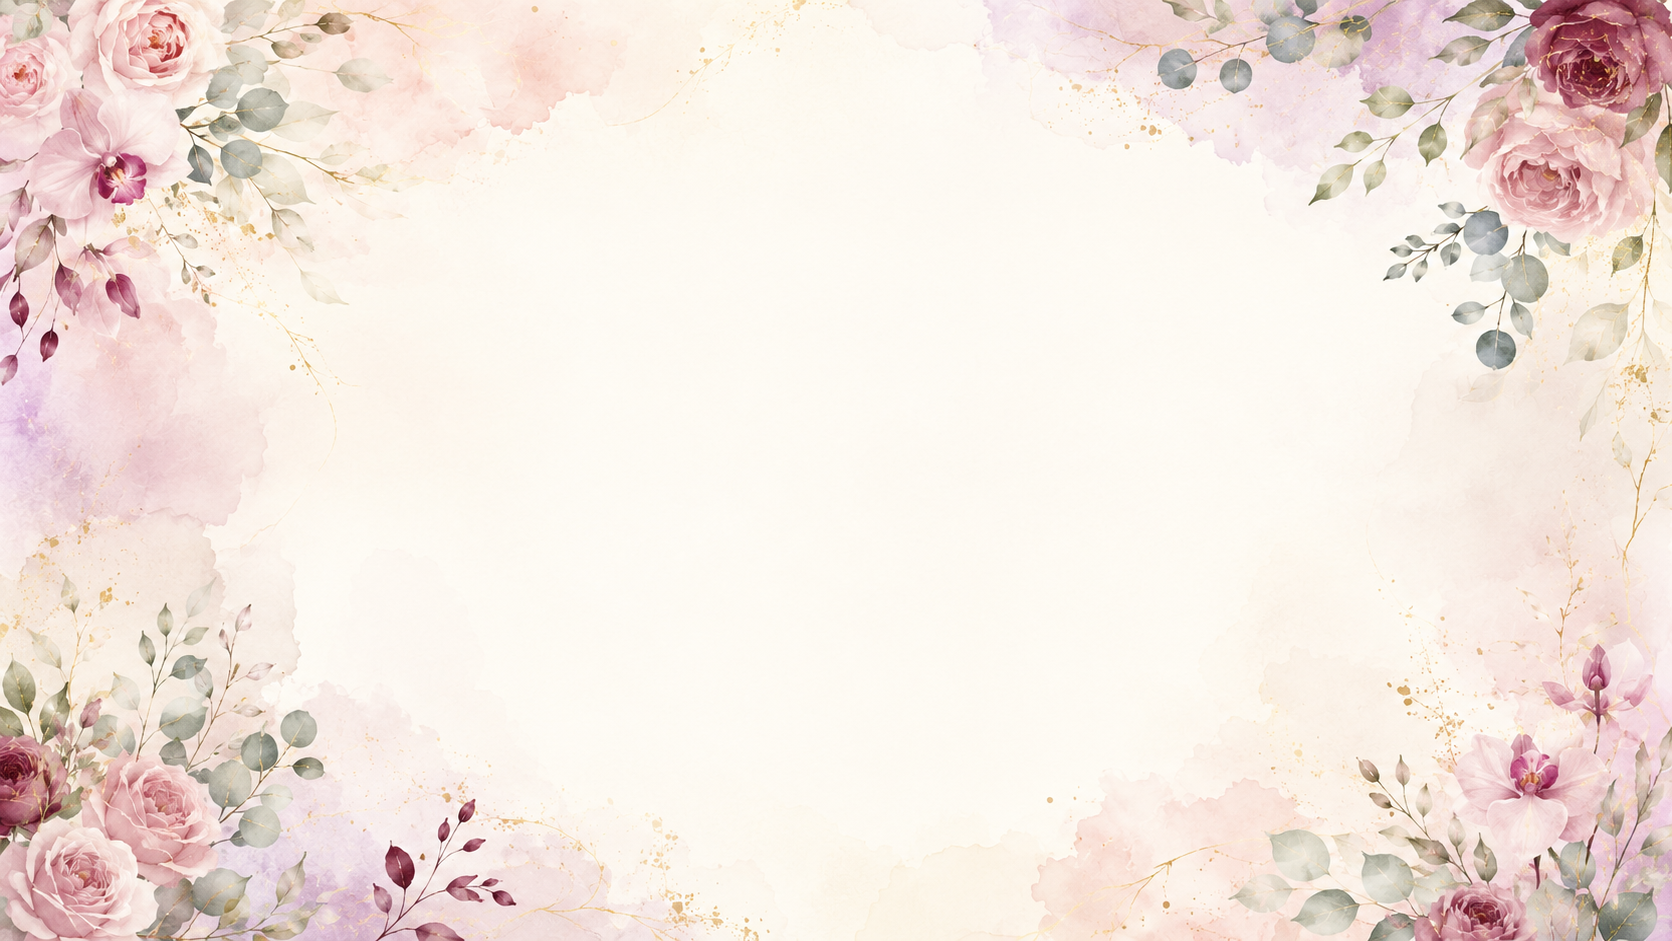
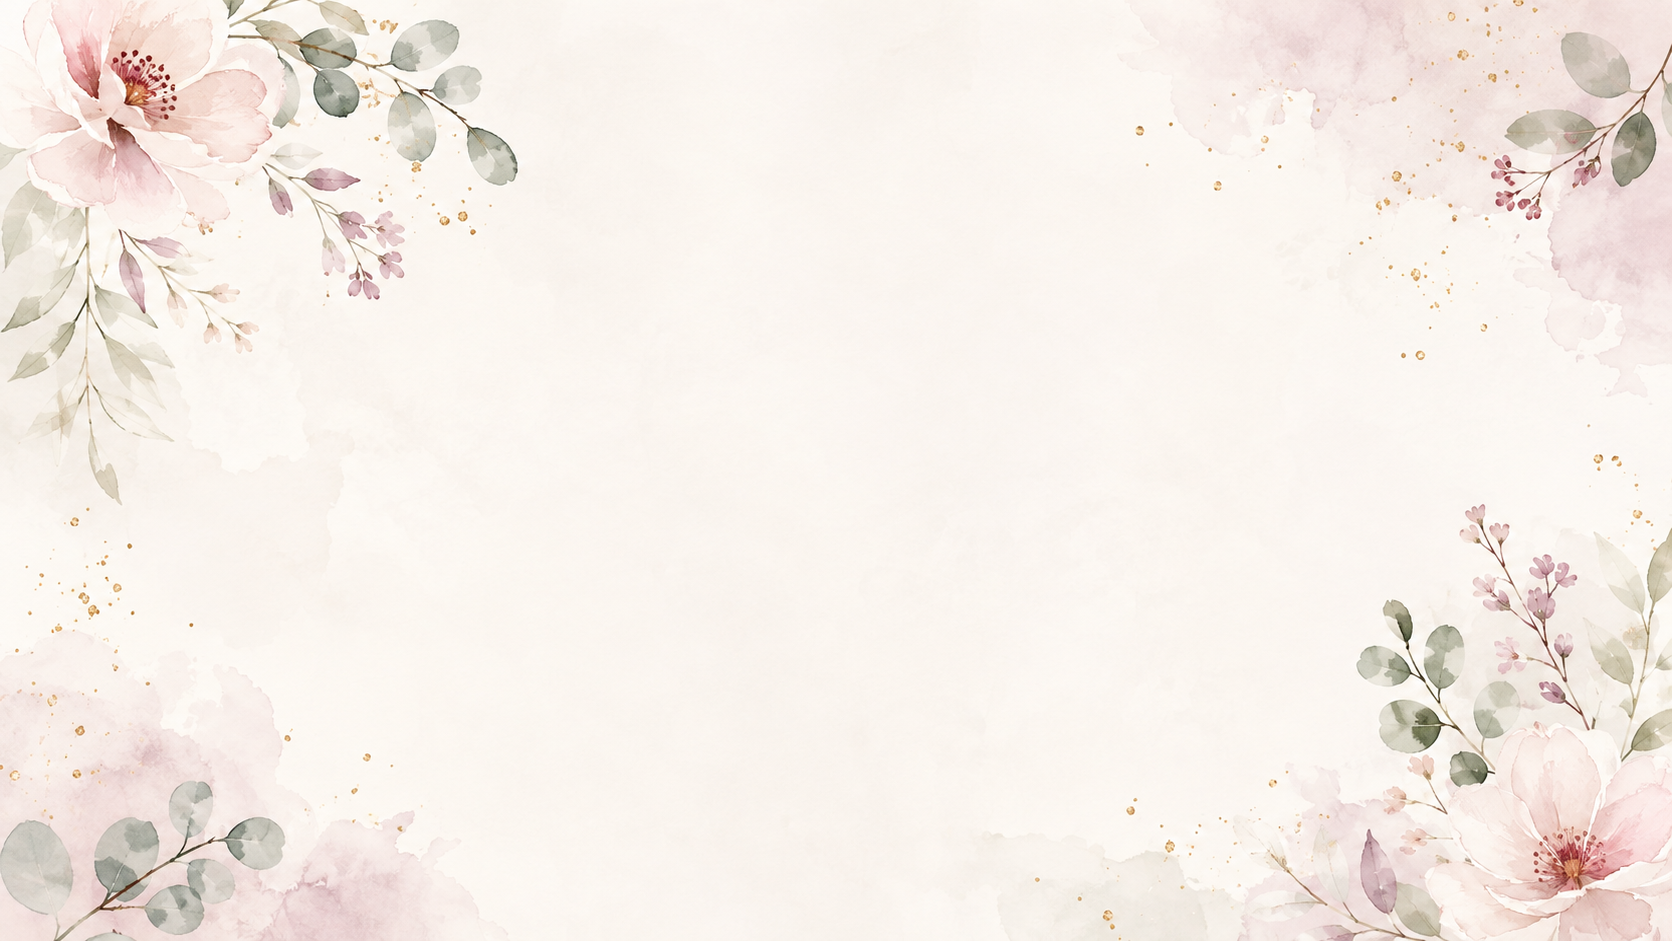
mejora prime

diff --git a/css/style.css b/css/style.css
@@ -5089,3 +5089,116 @@ a{
         padding:4vh 0 3vh;
     }
 }
+
+/* =====================================================
+   PASES SOLO EN EL SEGUNDO SLIDE — v16
+===================================================== */
+
+/* El RSVP ya no muestra nombre ni cantidad de pases. */
+#rsvp-summary{
+    display:none !important;
+}
+
+/* Tarjeta de invitado más compacta dentro del segundo slide. */
+.wedding-details .guest-invitation-card{
+    width:min(520px,100%);
+    margin:0 auto;
+    padding:20px 22px;
+    border-radius:18px;
+}
+
+.wedding-details .guest-card-label{
+    margin-bottom:6px;
+    font-size:9px;
+    letter-spacing:2px;
+}
+
+.wedding-details .guest-invitation-card h3{
+    font-size:clamp(24px,4vw,32px);
+    line-height:1.1;
+}
+
+.wedding-details .guest-card-divider{
+    width:48px;
+    margin:11px auto;
+}
+
+.wedding-details .guest-invitation-card > p:last-of-type{
+    font-size:13px;
+    line-height:1.45;
+}
+
+.wedding-details .guest-pass-icons{
+    gap:6px;
+    margin-top:10px;
+}
+
+.wedding-details .guest-pass-icon{
+    width:24px;
+    height:24px;
+    font-size:11px;
+}
+
+/* Celular: mucho más limpio y compacto. */
+@media(max-width:600px){
+
+    .wedding-details{
+        padding-top:56px;
+        padding-bottom:56px;
+    }
+
+    .wedding-details .guest-invitation-card{
+        width:min(100%,340px);
+        margin-top:0;
+        padding:14px 14px;
+        border-radius:15px;
+    }
+
+    .wedding-details .guest-card-label{
+        margin-bottom:4px;
+        font-size:7.5px;
+        letter-spacing:1.4px;
+    }
+
+    .wedding-details .guest-invitation-card h3{
+        font-size:22px;
+    }
+
+    .wedding-details .guest-card-divider{
+        width:40px;
+        margin:8px auto;
+    }
+
+    .wedding-details .guest-invitation-card > p:last-of-type{
+        font-size:11.5px;
+        line-height:1.35;
+    }
+
+    .wedding-details .guest-pass-icons{
+        gap:4px;
+        margin-top:8px;
+    }
+
+    .wedding-details .guest-pass-icon{
+        width:20px;
+        height:20px;
+        font-size:9px;
+    }
+}
+
+@media(max-width:380px){
+
+    .wedding-details .guest-invitation-card{
+        padding:12px;
+    }
+
+    .wedding-details .guest-invitation-card h3{
+        font-size:20px;
+    }
+
+    .wedding-details .guest-pass-icon{
+        width:18px;
+        height:18px;
+        font-size:8px;
+    }
+}

diff --git a/index.html b/index.html
@@ -36,7 +36,7 @@
 <!-- Google Fonts -->
 <link href="https://fonts.googleapis.com/css2?family=Cinzel:wght@400;500;600;700&amp;family=Great+Vibes&amp;family=Lato:wght@300;400;700&amp;display=swap" rel="stylesheet"/>
 <!-- CSS principal -->
-<link href="css/style.css?v=15" rel="stylesheet"/>
+<link href="css/style.css?v=16" rel="stylesheet"/>
 </head>
 <body>
 <!-- =========================================
@@ -349,18 +349,7 @@
             Confirma tu asistencia
         </h2>
 <div class="divider-center"></div>
-<div class="rsvp-summary" hidden="" id="rsvp-summary">
-<div aria-hidden="true" class="rsvp-summary-icon">
-        ✉
-    </div>
-<div class="rsvp-summary-content">
-<p class="rsvp-summary-label">
-            INVITACIÓN PARA
-        </p>
-<h3 id="rsvp-summary-name"></h3>
-<p class="rsvp-summary-passes" id="rsvp-summary-passes"></p>
-</div>
-</div>
+
 <div class="form-cta rsvp-confirm-card">
 <div aria-hidden="true" class="rsvp-confirm-icon">
         ✅
@@ -369,12 +358,7 @@
 <h3>
             Confirma tu asistencia
         </h3>
-<p>
-            Confírmanos antes del
-            <strong>1 de octubre de 2026</strong>.
-            Los lugares indicados corresponden al máximo
-            de asistentes asignados.
-        </p>
+<p>Confírmanos antes del <strong>1 de octubre de 2026</strong>.</p>
 <p class="rsvp-form-warning" hidden="" id="rsvp-form-warning">
             Abre el enlace personalizado que recibiste
             para confirmar tu asistencia.
@@ -506,6 +490,6 @@
 <img alt="" aria-hidden="true" class="gracias-floral" decoding="async" loading="lazy" src="img/gracias-floral.png"/>
 </section>
 <script src="https://cdn.jsdelivr.net/npm/bootstrap@5.3.7/dist/js/bootstrap.bundle.min.js"></script>
-<script src="js/script.js?v=15"></script>
+<script src="js/script.js?v=16"></script>
 </body>
 </html>
